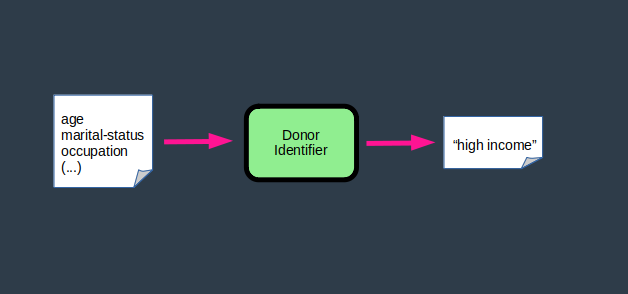
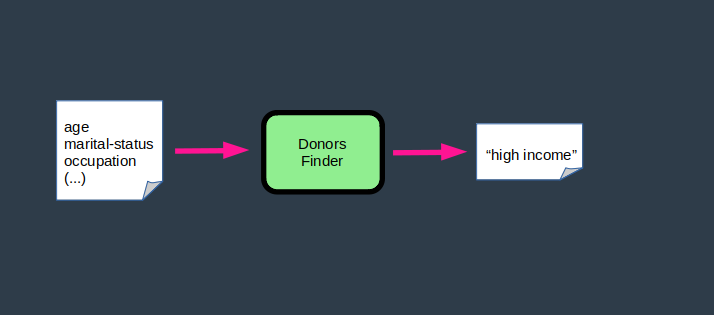
Update README and images.

Changed region(s): [[0.0605, 0.3061, 0.8774, 0.6429]]

diff --git a/README.md b/README.md
@@ -42,7 +42,7 @@ DESIGN
 DEPLOYMENT
 
 - [Instructions For CharityML](#instructions-for-charityml)
-	- [How to Collect Data](#how-to-collect-data)
+	- [How to Compile Data](#how-to-collect-data)
 	- [How to Run the Model](#how-to-run-the-model)
 
 CONCLUSION
@@ -208,7 +208,7 @@ A sanity check was performed to ensure this cleaning did not change the data. Th
 
 The charity donor identifier pipeline is made of the following components. These components are similar to the pipeline from reference [4], without the feature extractor (the input file of this project already contains our features).
 
-<img src="images/components.png"/> 
+<img src="images/pipeline.png"/> 
 
 
 # Data Loader
@@ -318,7 +318,7 @@ An hyperparameter search was ran on the SVC model. Results are available below.
 The following observations were made.
 
 - The "best" model did not perform significantly better than the default hyperparameters.
-- For this reason, it an SVC model with the Scikit-Learn default parameters was selected as our final model.
+- For this reason, an SVC model with the Scikit-Learn default parameters was selected as our final model.
 
 
 |    | model   | param_kernel   | param_degree   | param_gamma |  param_C |   F<sub>β</sub> score | note    |
@@ -372,16 +372,16 @@ The ML pipeline components mentionned above were implemented in Python 3 in file
 
 # Instructions for CharityML
 
-### How to Collect Data
+### How to Compile Data
 
-CharityML can collect its data into file `src/input.csv`. This file currently contains 5 dummy entries as an example. Note that this file should not contain column `income`.
+CharityML can collect its potential donors data into file `src/input.csv`. This file currently contains 5 dummy entries as an example. Note that this file should not contain column `income`.
 
 <img src="images/input-file.png"/> 
 
-The exact values to use for each categorical features are available in file `src/features.csv`
+The exact values to use for each categorical features are available in file `src/features.csv` .
 
 
-### How to Run the Pipeline
+### How to Run the Model
 
 Once data collection is completed, predictions can be made on `input.csv` with the following commands. This will create file `output.csv`, which contains one line per entry in `input.csv`. 0 = "low income" 1 = "high income".
 
